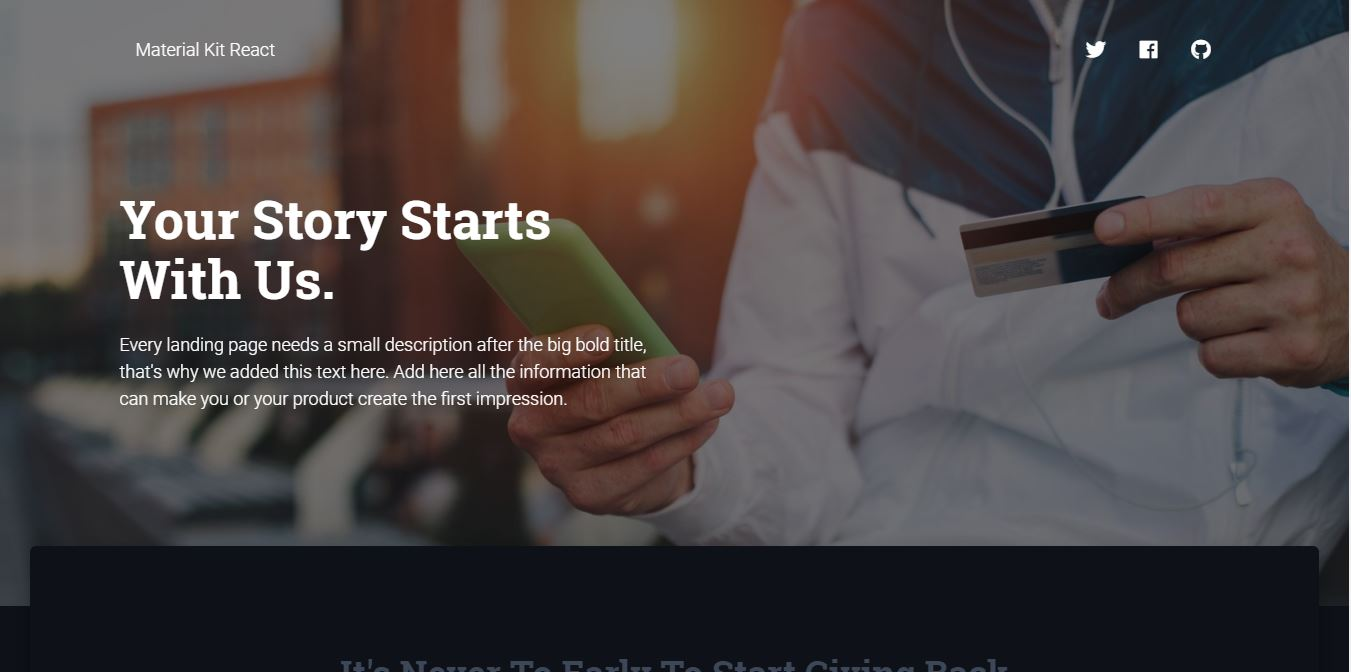
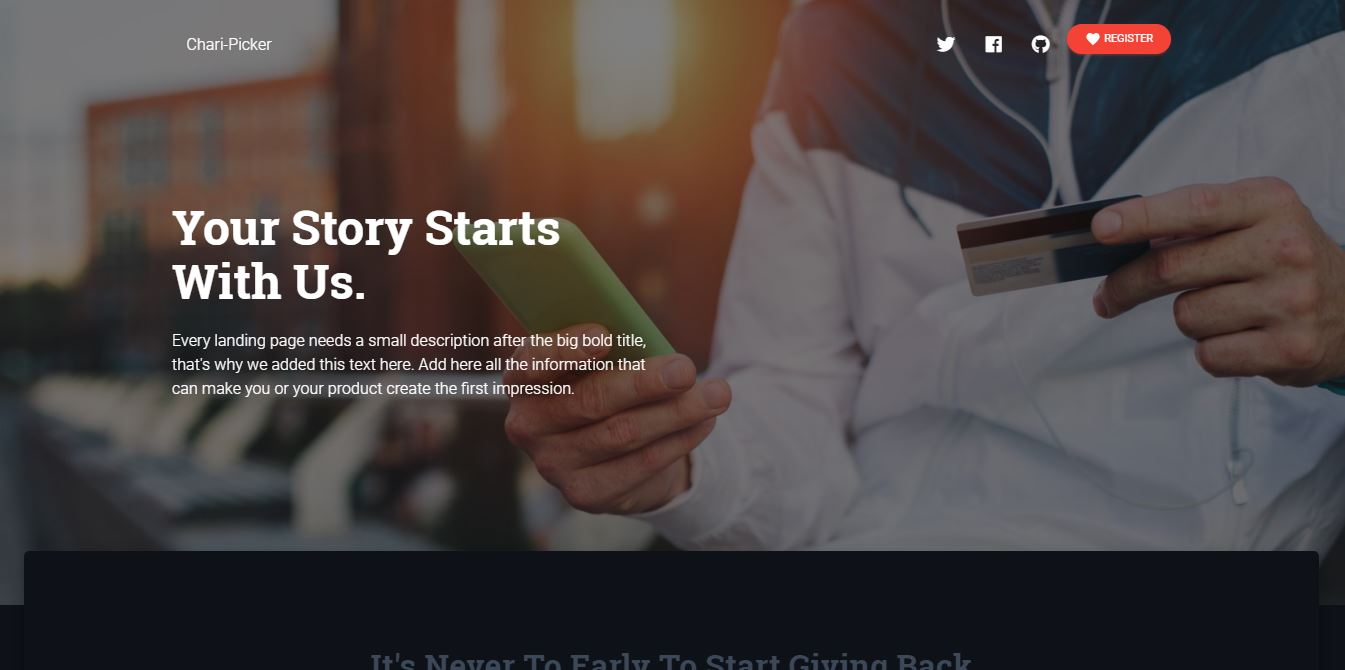
last commit for monday

diff --git a/src/views/LandingPage/Sections/ProductSection.jsx b/src/views/LandingPage/Sections/ProductSection.jsx
@@ -23,11 +23,9 @@ class ProductSection extends React.Component {
           <GridItem xs={12} sm={12} md={8}>
             <h2 className={classes.title}>It's Never To Early To Start Giving Back</h2>
             <h5 className={classes.description}>
-              This is the paragraph where you can write more details about your
-              product. Keep you user engaged by providing meaningful
-              information. Remember that by this time, the user is curious,
-              otherwise he wouldn't scroll to get here. Add a button if you want
-              the user to see more.
+              Lorem ipsum dolor sit amet consectetur, adipisicing elit. Esse alias rerum
+              dolorem doloremque unde nisi hic, nobis corporis saepe, consectetur a dolore
+              laborum aspernatur iusto nam beatae maiores obcaecati dolor?.
             </h5>
           </GridItem>
         </GridContainer>
@@ -36,7 +34,7 @@ class ProductSection extends React.Component {
             <GridItem xs={12} sm={12} md={4}>
               <InfoArea
                 title="Free Chat"
-                description="Divide details about your product or agency work into parts. Write a few lines about each one. A paragraph describing a feature will be enough."
+                description="Lorem ipsum dolor sit amet consectetur, adipisicing elit. Esse alias rerum dolorem doloremque unde nisi hic, nobis corporis saepe, consectetur a dolore laborum aspernatur iusto nam beatae maiores obcaecati dolor?"
                 icon={Chat}
                 iconColor="info"
                 vertical
@@ -45,7 +43,7 @@ class ProductSection extends React.Component {
             <GridItem xs={12} sm={12} md={4}>
               <InfoArea
                 title="Verified Users"
-                description="Divide details about your product or agency work into parts. Write a few lines about each one. A paragraph describing a feature will be enough."
+                description="Lorem ipsum dolor sit amet consectetur, adipisicing elit. Esse alias rerum dolorem doloremque unde nisi hic, nobis corporis saepe, consectetur a dolore laborum aspernatur iusto nam beatae maiores obcaecati dolor?"
                 icon={VerifiedUser}
                 iconColor="success"
                 vertical

diff --git a/src/views/Components/Components.jsx b/src/views/Components/Components.jsx
@@ -29,14 +29,14 @@ import SectionExamples from "./Sections/SectionExamples.jsx";
 import SectionDownload from "./Sections/SectionDownload.jsx";
 
 import componentsStyle from "assets/jss/material-kit-react/views/components.jsx";
-
+import Small from "components/Typography/Small.jsx";
 class Components extends React.Component {
   render() {
     const { classes, ...rest } = this.props;
     return (
       <div>
         {/* <img src="../src/assets/img/images/charityLogo.png" alt="..."/>; */}
-        
+
         <Header
           // img="assets/img/images/charityLogo.png"
           brand="Chari-Picker"
@@ -57,9 +57,9 @@ class Components extends React.Component {
                   <h1 id="redTitle" className={classes.title}>Chari</h1>
                   <h1 className={classes.title}>-Picker</h1>
                   <h3 className={classes.subtitle}>
-                    We are dedicated to make giving to charities as easy as possible. With 
+                    We are dedicated to make giving to charities as easy as possible. With
                     <span id="redTitle_bold"> Chari</span><span id="whiteTitle_bold">-Picker</span>
-                    , you will have a convient way to find a charitable cause and be able to donate to it directly from your phone. 
+                    , you will have a convient way to find a charitable cause and be able to donate to it directly from your phone.
                   </h3>
                 </div>
               </GridItem>
@@ -80,8 +80,16 @@ class Components extends React.Component {
           <SectionLogin />
           <GridItem md={12} className={classes.textCenter}>
             <Link to={"/login-page"} className={classes.link}>
-              <Button color="danger" size="lg" simple>
-                PLEASE REGISTER HERE
+              <Button color="default" size="lg" simple>
+                {/* <h3>
+                  <small> PLEASE REGISTER HERE</small>
+                </h3> */}
+                <div className={classes.typo}>
+                  <h2>
+                    <Small>PLEASE REGISTER HERE</Small>
+                  </h2>
+                </div>
+                
               </Button>
             </Link>
           </GridItem>

diff --git a/src/views/Components/Sections/SectionCompletedExamples.jsx b/src/views/Components/Sections/SectionCompletedExamples.jsx
@@ -19,10 +19,12 @@ class SectionCompletedExamples extends React.Component {
             <GridItem xs={12} sm={12} md={8}>
               <h2>Completed with examples</h2>
               <h4>
-                The kit comes with three pre-built pages to help you get started
-                faster. You can change the text and images and you're good to
-                go. More importantly, looking at them will give you a picture of
-                what you can built with this powerful kit.
+                Lorem, ipsum dolor sit amet consectetur
+                adipisicing elit. Blanditiis facilis, 
+                sit saepe eligendi ab quaerat natus ex
+                ducimus enim porro. Architecto saepe 
+                aspernatur corporis est soluta neque, 
+                quas voluptas provident.
               </h4>
             </GridItem>
           </GridContainer>

diff --git a/src/views/Components/Sections/SectionExamples.jsx b/src/views/Components/Sections/SectionExamples.jsx
@@ -35,7 +35,9 @@ class SectionExamples extends React.Component {
                   }
                 />
                 <Button color="danger" size="lg" simple>
-                  FIND YOUR CHARITY 
+                  <h3>
+                    <small>FIND YOUR CHARITY</small>
+                  </h3>
                 </Button>
               </Link>
             </GridItem>
